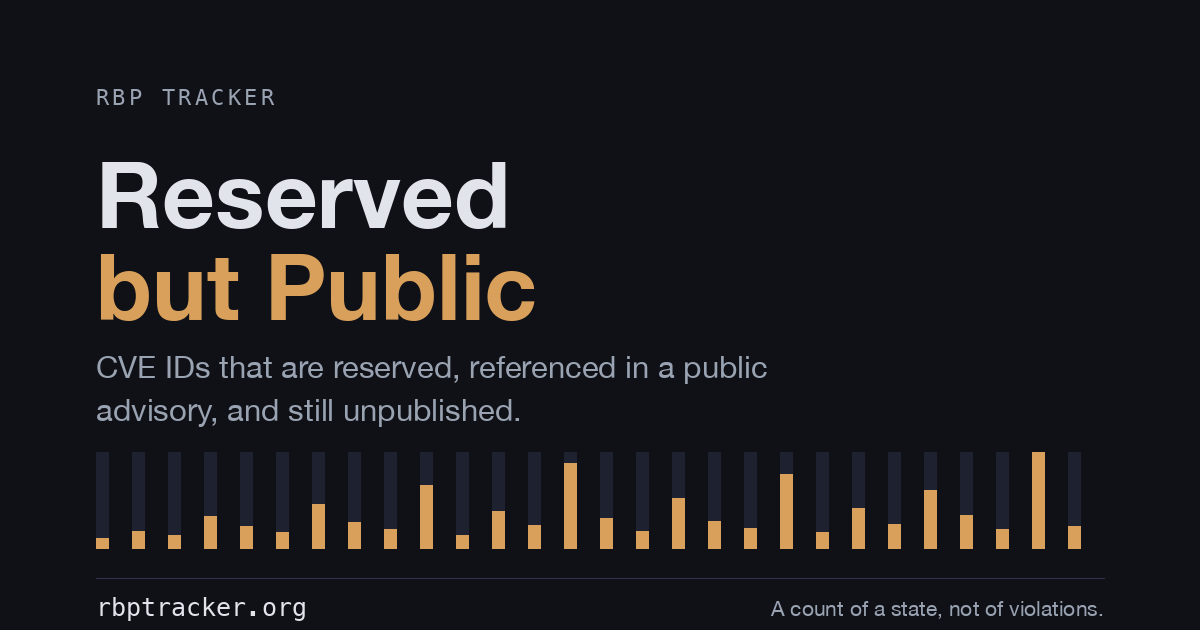
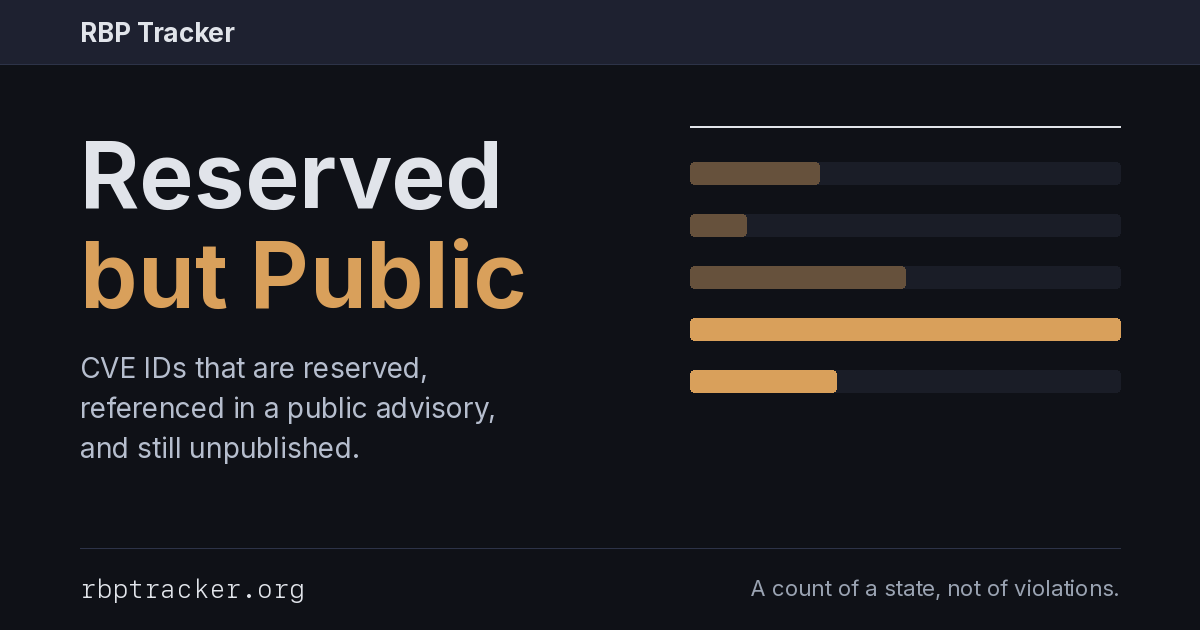
site: the social card is redrawn from the front page as it is now (#63)
The card was drawn once in #8 and still carried the vertical per-row
rails and Helvetica. The rails have left the site and the lead is now a
count beside horizontal age bars, set in Inter, so an unfurl looked like a
different product from the page it linked.

Redrawn as the site's lead: the header bar, the name where the count sits,
and the distribution panel's shape, with the three buckets the default
window holds back dimmed as .distbar.out dims them. Set in the site's own
Inter (static/fonts), unwrapped from WOFF2 with fontTools when Pillow's
FreeType cannot read it. Still carries no figure; the count is og:title's.

Only og-card.png is regenerated. The favicon and touch icon came out
byte-different under a newer Pillow with no design change, so they are
left as committed. The og:image ?v= is a content hash and moves by itself.

diff --git a/tools/make_brand_assets.py b/tools/make_brand_assets.py
@@ -50,9 +50,11 @@ IMG = os.path.join(ROOT, "static", "img")
 #                          --color-text-primary
 #   static/css/rbp.css     --rbp-age (the days-public signal) / --rbp-text-muted
 BG = "#0f1117"
+TRACK = "#1a1d27"      # --color-bg-secondary: a distribution bar's empty track
 SURFACE = "#1e2130"
 BORDER = "#2d3348"
 INK = "#e1e4ea"
+SECOND = "#b6bece"     # --rbp-text-secondary
 MUTED = "#9aa3b2"
 AMBER = "#D9A05B"
 
@@ -63,13 +65,56 @@ _FACES = {
     "regular": ["/System/Library/Fonts/HelveticaNeue.ttc",
                 "/System/Library/Fonts/Supplemental/Arial.ttf",
                 "/usr/share/fonts/truetype/dejavu/DejaVuSans.ttf"],
-    "mono": ["/System/Library/Fonts/Menlo.ttc",
+    # SF Mono first: it is what the site's ui-monospace stack resolves to on
+    # the machine this is authored on.
+    "mono": ["/System/Library/Fonts/SFNSMono.ttf",
+             "/System/Library/Fonts/Menlo.ttc",
              "/System/Library/Fonts/Supplemental/Courier New Bold.ttf",
              "/usr/share/fonts/truetype/dejavu/DejaVuSansMono.ttf"],
 }
 # HelveticaNeue.ttc is a collection; index 0 is Regular and 1 is Bold.
 _INDEX = {"bold": 1, "regular": 0, "mono": 0}
 _warned = set()
+
+
+# THE SITE'S OWN FACE. static/fonts/inter-latin.woff2 is what every page loads,
+# so the card is set in it rather than in whatever sans the authoring machine
+# has. It is a variable WOFF2, which FreeType only opens when it was built with
+# brotli, so on a Pillow that cannot read it directly it is unwrapped to a TTF in
+# memory with fontTools (`pip install fonttools brotli`). Neither is on the
+# publish path; see the module docstring.
+INTER = os.path.join(ROOT, "static", "fonts", "inter-latin.woff2")
+_inter_bytes = None
+
+
+def inter(size, weight):
+    global _inter_bytes
+    import io
+    try:
+        f = ImageFont.truetype(INTER, size)
+    except OSError:
+        if _inter_bytes is None:
+            try:
+                from fontTools.ttLib import TTFont
+                tt = TTFont(INTER)
+                tt.flavor = None
+                buf = io.BytesIO()
+                tt.save(buf)
+                _inter_bytes = buf.getvalue()
+            except Exception as exc:  # pragma: no cover - authoring tool
+                sys.exit(f"cannot read {os.path.relpath(INTER, ROOT)} ({exc}).\n"
+                         "pip install fonttools brotli, then re-run. The card is "
+                         "set in the site's face and has no substitute.")
+        f = ImageFont.truetype(io.BytesIO(_inter_bytes), size)
+    f.set_variation_by_axes([weight])
+    return f
+
+
+def _mix(a, b, t):
+    """`b` at opacity `t` over `a`, which is how the site draws a dimmed bar."""
+    a = [int(a[i:i + 2], 16) for i in (1, 3, 5)]
+    b = [int(b[i:i + 2], 16) for i in (1, 3, 5)]
+    return tuple(round(x + (y - x) * t) for x, y in zip(a, b))
 
 
 def font(kind, size):
@@ -87,16 +132,6 @@ def font(kind, size):
     return ImageFont.load_default()
 
 
-def tracked(d, xy, text, font_, fill, tracking=0):
-    """Draw text with real letter-spacing. PIL has no tracking, and an uppercase
-    label without it reads as a cramped word rather than as a label."""
-    x, y = xy
-    for ch in text:
-        d.text((x, y), ch, font=font_, fill=fill)
-        x += d.textlength(ch, font=font_) + tracking
-    return x
-
-
 def social_card(path):
     """1200x630, the one size every unfurler crops from.
 
@@ -104,59 +139,57 @@ def social_card(path):
     render an SVG og:image, which is why this is a PNG and not the vector the rest
     of the site's marks are.
 
-    FULL-BLEED, and not a rounded card with an accent rail down one side. The
-    first attempt was exactly that, which is both the most generic layout
-    available and a misuse of the site's own device: on the site the amber bar is
-    a row's days-public reading, so one bar framing a poster says nothing. Here
-    the bars are what they are on the site -- many rows, each a different age --
-    used as the texture along the base rather than as a frame.
+    DRAWN FROM THE FRONT PAGE AS IT IS, redrawn 2026-09-29. The first card used
+    vertical amber rails along its base, the per-row days-public device, and set
+    everything in Helvetica. The rails left the site and the lead became a count
+    beside a distribution of horizontal age bars, set in Inter, so a card pasted
+    beside a link to the site looked like a different product.
+
+    So this is the site's lead: the header bar, the name where the count sits,
+    and the distribution panel's shape beside it, older buckets dimmed as the
+    default view dims them. The name stands in for the count because the count
+    is in og:title, which every unfurler renders as text beside this image; see
+    the module docstring.
+
+    The bars are a fixed pattern with no labels and no figures, so they read as
+    the site's vocabulary rather than as a data claim, and re-running this script
+    reproduces the asset byte for byte.
     """
     W, H = 1200, 630
-    M = 96                       # one margin, used on both sides and reused below
+    M = 80                       # one margin, used on both sides and reused below
     im = Image.new("RGB", (W, H), BG)
     d = ImageDraw.Draw(im)
 
-    # THE RAILS, drawn FIRST and confined to a band along the base.
-    #
-    # On the site every row carries a vertical track in the surface colour with an
-    # amber fill whose height is how long that ID has been public, so a band of
-    # them is "many rows, each a different age" in the site's own vocabulary.
-    #
-    # A band rather than a full-height field: the first attempt let them span the
-    # card and drew them over the type, which was illegible. They are texture, so
-    # they sit under the words and out of their way.
-    #
-    # Deliberately not a chart. No axis, no labels, no figure anywhere near it, so
-    # nothing here can be read as a data claim the way a sample CVE ID or a baked
-    # in count could. The heights are a fixed pattern rather than a random source,
-    # so re-running this script reproduces the asset byte for byte and a
-    # regenerated card is never a spurious diff.
-    band_top, band_base = 452.0, 548.0
-    pattern = [7, 12, 9, 22, 15, 11, 31, 18, 13, 44, 9, 26, 16, 60, 21, 12, 35,
-               19, 14, 52, 11, 28, 17, 41, 23, 13, 68, 15]
-    span = W - 2 * M
-    step = span / len(pattern)
-    bw = step * 0.36
-    for i, v in enumerate(pattern):
-        bx = M + i * step
-        h = (v / 68.0) * (band_base - band_top)
-        d.rectangle([bx, band_top, bx + bw, band_base], fill=SURFACE)
-        d.rectangle([bx, band_base - h, bx + bw, band_base], fill=AMBER)
+    # The header bar, as every page has it.
+    d.rectangle([0, 0, W, 64], fill=SURFACE)
+    d.line([0, 64, W, 64], fill=BORDER, width=1)
+    d.text((M, 32), "RBP Tracker", font=inter(26, 700), fill=INK, anchor="lm")
 
-    tracked(d, (M, 84), "RBP TRACKER", font("mono", 22), MUTED, tracking=3.2)
-
-    d.text((M, 138), "Reserved", font=font("bold", 92), fill=INK)
-    d.text((M, 230), "but Public", font=font("bold", 92), fill=AMBER)
-
+    # The lead. Weight 650 is .cmd-count b's.
+    d.text((M, 118), "Reserved", font=inter(92, 650), fill=INK)
+    d.text((M, 218), "but Public", font=inter(92, 650), fill=AMBER)
     d.multiline_text(
-        (M, 348),
-        "CVE IDs that are reserved, referenced in a public\nadvisory, and still unpublished.",
-        font=font("regular", 31), fill=MUTED, spacing=13)
+        (M, 350),
+        "CVE IDs that are reserved,\nreferenced in a public advisory,\nand still unpublished.",
+        font=inter(28, 400), fill=SECOND, spacing=12)
 
-    d.line([M, 578, W - M, 578], fill=BORDER, width=1)
-    d.text((M, 592), "rbptracker.org", font=font("mono", 25), fill=INK)
-    d.text((W - M, 596), "A count of a state, not of violations.",
-           font=font("regular", 21), fill=MUTED, anchor="ra")
+    # The distribution panel: a rule over five bars on their tracks, oldest
+    # bucket first as the default sort has it. The three the default window
+    # holds back are drawn at .distbar.out's 0.4 opacity.
+    px0, px1 = 690, W - M
+    d.line([px0, 126, px1, 126], fill=INK, width=2)
+    buckets = [(0.30, True), (0.13, True), (0.50, True), (1.00, False), (0.34, False)]
+    y = 162
+    for frac, out in buckets:
+        d.rounded_rectangle([px0, y, px1, y + 22], radius=4, fill=TRACK)
+        d.rounded_rectangle([px0, y, px0 + (px1 - px0) * frac, y + 22], radius=4,
+                            fill=_mix(TRACK, AMBER, 0.4) if out else AMBER)
+        y += 52
+
+    d.line([M, 548, W - M, 548], fill=BORDER, width=1)
+    d.text((M, 588), "rbptracker.org", font=font("mono", 26), fill=INK, anchor="lm")
+    d.text((W - M, 588), "A count of a state, not of violations.",
+           font=inter(22, 400), fill=MUTED, anchor="rm")
 
     im.save(path, "PNG", optimize=True)
     return path
